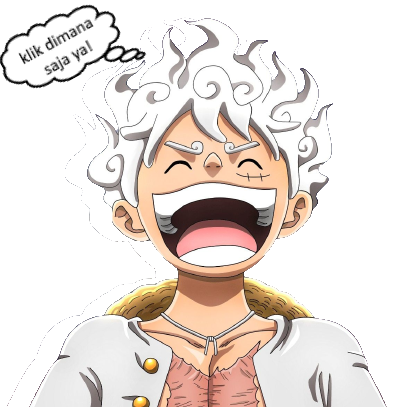
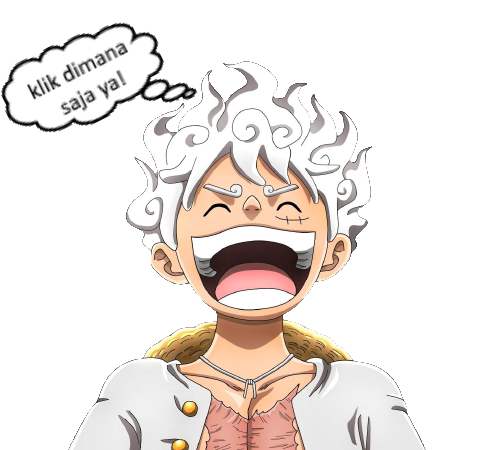
revend

diff --git a/css/style.css b/css/style.css
@@ -1,18 +1,10 @@
 @import url('https://fonts.googleapis.com/css2?family=Almarai:wght@400;700&family=Itim&family=Poppins:wght@400;700&family=Sacramento&family=Work+Sans:wght@100;400;600;700&display=swap');
+
 *{
     margin: 0;
     padding: 0;
     box-sizing: border-box;
 }
-
-/* body{
-    margin: 0;
-    padding: 0;
-    display: flex;
-    justify-content: center;
-    align-items: center;
-    min-height: 100vh;
-} */
 
 body {
     margin: 0;
@@ -22,51 +14,31 @@ body {
     align-items: center;
     min-height: 100vh;
     position: relative;
-  }
-
-/* .hero {
-    background-image: url("thunder.jpg");
-    background-position: center;
-    background-repeat: no-repeat;
-    background-size: cover;
-  } */
-
-.hero {
-position: relative;
-background-image: url("../img/thunder.png"); /* Ganti 'background-image.jpg' dengan URL gambar latar belakang Anda */
-background-size: cover;
-background-repeat: no-repeat;
-background-position: center;
-background-attachment: fixed;
-min-height: 100vh;
-display: flex;
-justify-content: center;
-align-items: center;
 }
 
-/* .greetings{
-    font-family: 'Itim',cursive;
-    font-size: 4.5rem; 
-    font-weight: 900;
+.hero {
+    position: relative;
+    background-image: url("../img/thunder.png"); /* Ganti 'background-image.jpg' dengan URL gambar latar belakang Anda */
+    background-size: cover;
+    background-repeat: no-repeat;
+    background-position: center;
+    background-attachment: fixed;
+    min-height: 100vh;
     display: flex;
     justify-content: center;
     align-items: center;
-} */
-
-.greetings {
-position: fixed;
-top: 0;
-left: 50%;
-transform: translate(-50%);
-padding: 10px;
-display: flex;
-justify-content: center;
-align-items: center;
 }
 
-/* .greetings > span{
-    animation: glow 3.5s ease-in-out infinite;
-} */
+.greetings {
+    position: fixed;
+    top: 0;
+    left: 50%;
+    transform: translate(-50%);
+    padding: 10px;
+    display: flex;
+    justify-content: center;
+    align-items: center;
+}
 
 .greetings span {
     font-family: "Itim", cursive;
@@ -74,45 +46,27 @@ align-items: center;
     font-weight: 900;
     margin: 5px;
     animation: glow 3.5s ease-in-out infinite;
-  }
-
-/* .g{
-    font-family: 'Poppins',cursive;
-    font-size: 1.7rem;
-    margin-top: -10px;
-    animation: glo 2s ease-in-out infinite;
-    text-align: center;
-} */
+}
 
 .g {
-font-family: "Poppins", cursive;
-font-size: 1.3rem;
-position: fixed;
-top: 10%;
-left: 50%;
-transform: translate(-50%, 10%);
-padding: 30px;
-text-align: center;
+    font-family: "Poppins", cursive;
+    font-size: 1.3rem;
+    position: fixed;
+    top: 10%;
+    left: 50%;
+    transform: translate(-50%, 10%);
+    padding: 30px;
+    text-align: center;
 }
 
 .g span {
-/* font-size: 20px; */
-margin: 5px;
-display: block;
-animation: glo 2s ease-in-out infinite;
+    margin: 5px;
+    display: block;
+    animation: glo 2s ease-in-out infinite;
 }
 
-/* .img-fluid {
-    max-width: 100%;
-    height: auto;
-    display: block;
-    position: fixed;
-    bottom: 0;
-    left: 50%;
-    transform: translateX(-50%);
-  } */
 .img-fluid img {
-    width: 24%;
+    width: 30%;
     height: auto;
     display: block;
     position: fixed;
@@ -122,7 +76,7 @@ animation: glo 2s ease-in-out infinite;
 }
 
 
-
+/* animasi text */
 @keyframes glo{
     0%, 100%{
         color: navy;
@@ -193,10 +147,7 @@ animation: glo 2s ease-in-out infinite;
 
     .hero {
         background-image: url("../img/thunder.jpg");
-        /* background-position: center;
-        background-repeat: no-repeat;
-        background-size: fixed; */
-      }
+    }
 
     .greetings{
         position: fixed;
@@ -210,13 +161,11 @@ animation: glo 2s ease-in-out infinite;
     }
 
     .greetings span {
-        /* font-family: "Itim", cursive; */
         font-size: 1.5rem;
         letter-spacing: -4px;
         font-weight: 900;
         margin: 5px;
-        /* animation: glow 3.5s ease-in-out infinite; */
-      }
+    }
 
     .g {
         position: static;
@@ -235,7 +184,7 @@ animation: glo 2s ease-in-out infinite;
     }
 
     .img-fluid img {
-        width: 70%;
+        width: 76%;
         height: auto;
         display: block;
         position: fixed;
@@ -249,10 +198,7 @@ animation: glo 2s ease-in-out infinite;
 
     .hero {
         background-image: url("../img/thunder.jpg");
-        /* background-position: center;
-        background-repeat: no-repeat;
-        background-size: fixed; */
-      }
+    }
 
     .greetings{
         position: fixed;
@@ -266,12 +212,10 @@ animation: glo 2s ease-in-out infinite;
     }
 
     .greetings span {
-        /* font-family: "Itim", cursive; */
         font-size: 2.35rem;
         font-weight: 900;
         margin: 5px;
-        /* animation: glow 3.5s ease-in-out infinite; */
-      }
+    }
 
     .g {
         position: static;
@@ -290,7 +234,7 @@ animation: glo 2s ease-in-out infinite;
     }
 
     .img-fluid img {
-        width: 40%;
+        width: 46%;
         height: auto;
         display: block;
         position: fixed;
@@ -298,17 +242,13 @@ animation: glo 2s ease-in-out infinite;
         left: 50%;
         transform: translateX(-50%);
     }
-
 }
 
 @media (min-width: 769px) and (max-width: 920px) {
 
     .hero {
         background-image: url("../img/thunder.png");
-        /* background-position: center;
-        background-repeat: no-repeat;
-        background-size: fixed; */
-      }
+    }
 
     .greetings{
         position: fixed;
@@ -322,12 +262,10 @@ animation: glo 2s ease-in-out infinite;
     }
 
     .greetings span {
-        /* font-family: "Itim", cursive; */
         font-size: 2.2rem;
         font-weight: 900;
         margin: 5px;
-        /* animation: glow 3.5s ease-in-out infinite; */
-      }
+    }
 
     .g {
         position: static;
@@ -346,7 +284,7 @@ animation: glo 2s ease-in-out infinite;
     }
 
     .img-fluid img {
-        width: 35%;
+        width: 41%;
         height: auto;
         display: block;
         position: fixed;
@@ -354,19 +292,13 @@ animation: glo 2s ease-in-out infinite;
         left: 50%;
         transform: translateX(-50%);
     }
-
 }
-
-
 
 @media (min-width: 921px) and (max-width: 1280px) {
 
     .hero {
         background-image: url("../img/thunder.png");
-        /* background-position: center;
-        background-repeat: no-repeat;
-        background-size: fixed; */
-      }
+    }
 
     .greetings{
         position: fixed;
@@ -380,12 +312,10 @@ animation: glo 2s ease-in-out infinite;
     }
 
     .greetings span {
-        /* font-family: "Itim", cursive; */
         font-size: 3rem;
         font-weight: 900;
         margin: 5px;
-        /* animation: glow 3.5s ease-in-out infinite; */
-      }
+    }
 
     .g {
         position: static;
@@ -404,7 +334,7 @@ animation: glo 2s ease-in-out infinite;
     }
 
     .img-fluid img {
-        width: 30%;
+        width: 36%;
         height: auto;
         display: block;
         position: fixed;
@@ -412,6 +342,5 @@ animation: glo 2s ease-in-out infinite;
         left: 50%;
         transform: translateX(-50%);
     }
-
 }
 
